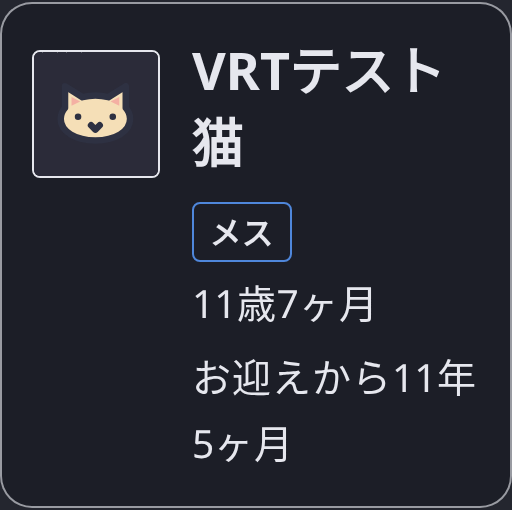
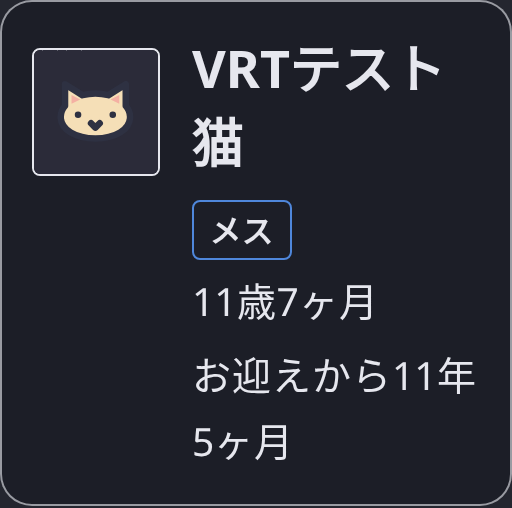
アイコンの横断修正とプロフィール配置の比較画像を更新

diff --git a/README.md b/README.md
@@ -2,8 +2,8 @@
 
 [PR #508](https://github.com/cateiru/canshi/pull/508) の見た目確認用スクリーンショットです。
 
-- 修正前: `3d22b1c6ad765b7085fd73e6a88ffc9d35e07bda` の対象 CSS を読み込んで撮影
-- 修正後: `3be50df77d3edf4219a30481592c6c0e8c0130aa`
+- 修正前: `3d22b1c6ad765b7085fd73e6a88ffc9d35e07bda` の対象ファイルを読み込んで撮影
+- 修正後: `4cbacecc5c80dddb1a1660589686b6a87094a4fc`
 - 表示条件: 幅 320px、文字サイズ「特大」、ダークテーマ、パープル、コントラスト「上げる」
 - 撮影対象: 既存の VRT 用テストデータ
 - 撮影日: 2026-11-06
@@ -22,4 +22,19 @@
 ## 記録フォーム
 
 - `form-before.png`: 日付が欠け、記録方法のラベルが途中で改行される
-- `form-after.png`: 日付・時刻を縦に並べ、記録方法を選択肢ごとに折り返す
+- `form-after.png`: 日付・時刻を縦に並べ、記録方法を選択肢ごとに折り返す。「?」と見出しのアイコンも拡大
+
+## 設定メニュー
+
+- `navigation-before.png`: メニューのアイコン・矢印が固定サイズ
+- `navigation-after.png`: 文字サイズに合わせてアイコン・矢印を拡大
+
+## チェックボックス
+
+- `checkbox-before.png`: 枠とチェックが固定サイズ
+- `checkbox-after.png`: 枠とチェックを文字サイズに合わせて拡大
+
+## アカウントのプロフィール
+
+- `profile-before.png`: 固定サイズの画像と編集ボタンの間で名前・IDが狭くなる
+- `profile-after.png`: 画像と編集ボタンを拡大し、名前・IDを次の行に配置
